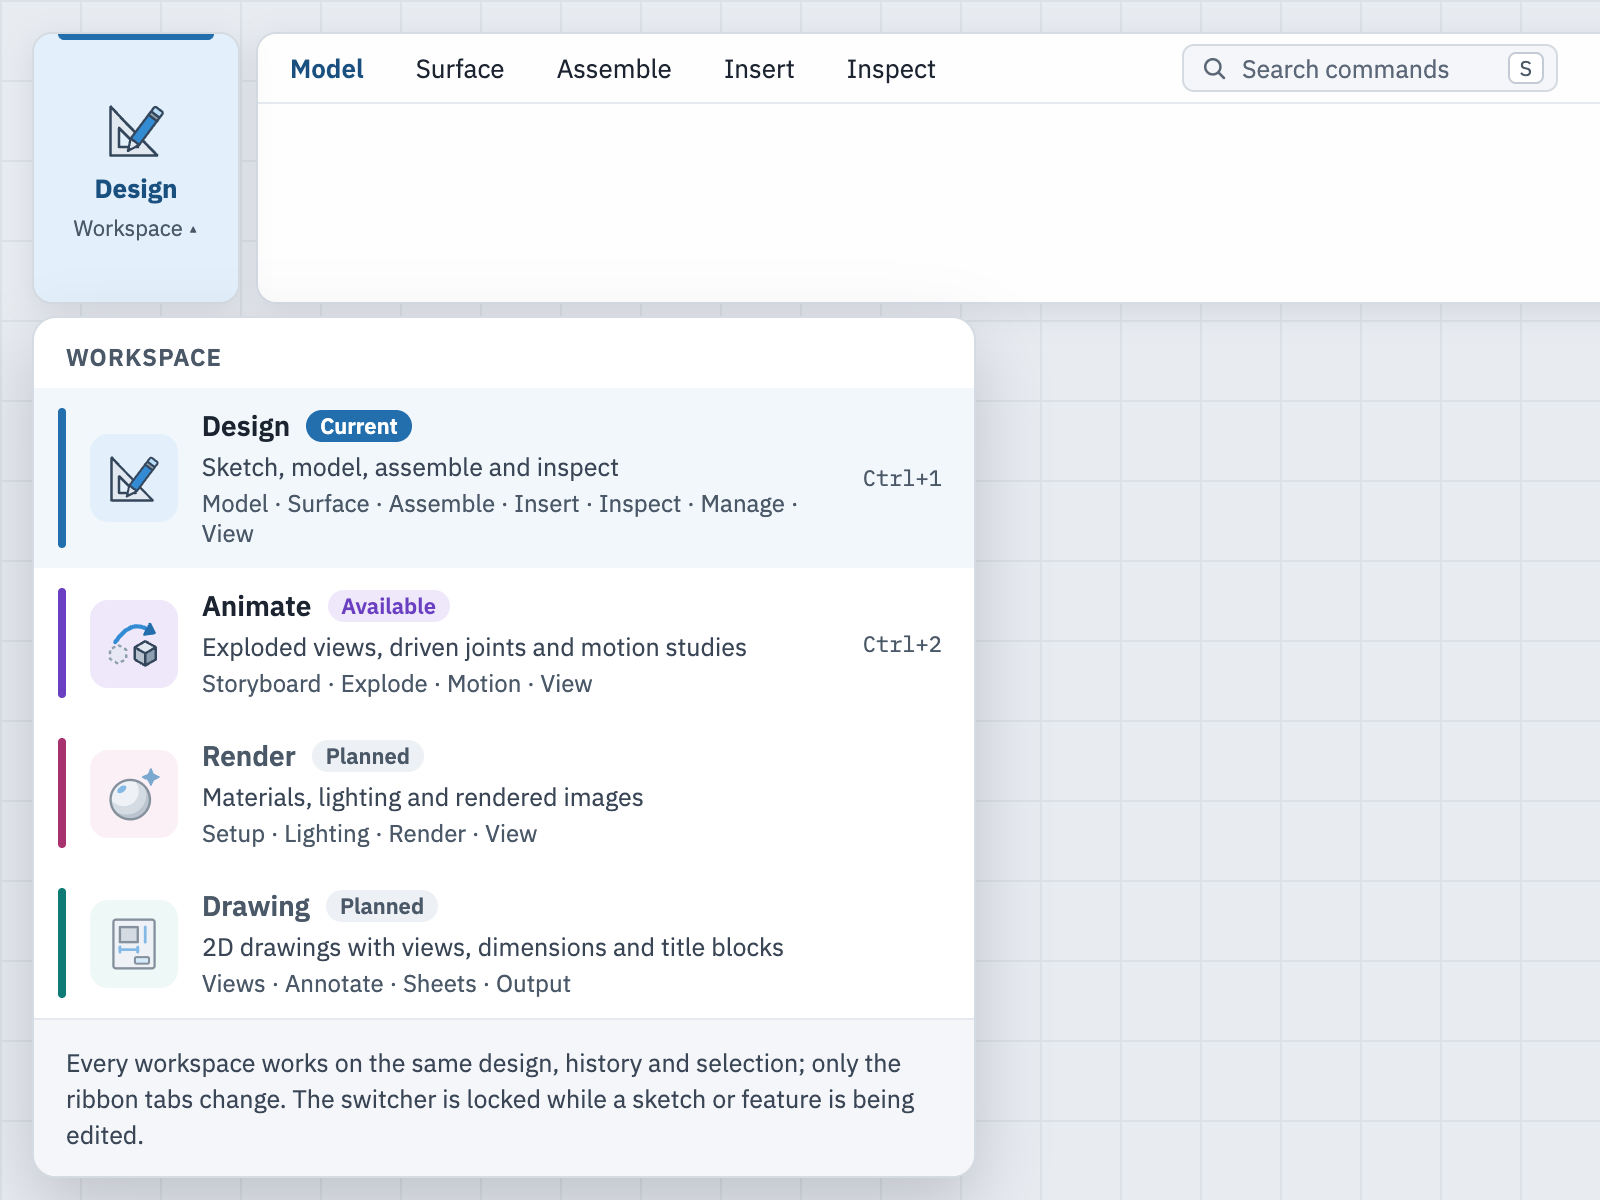
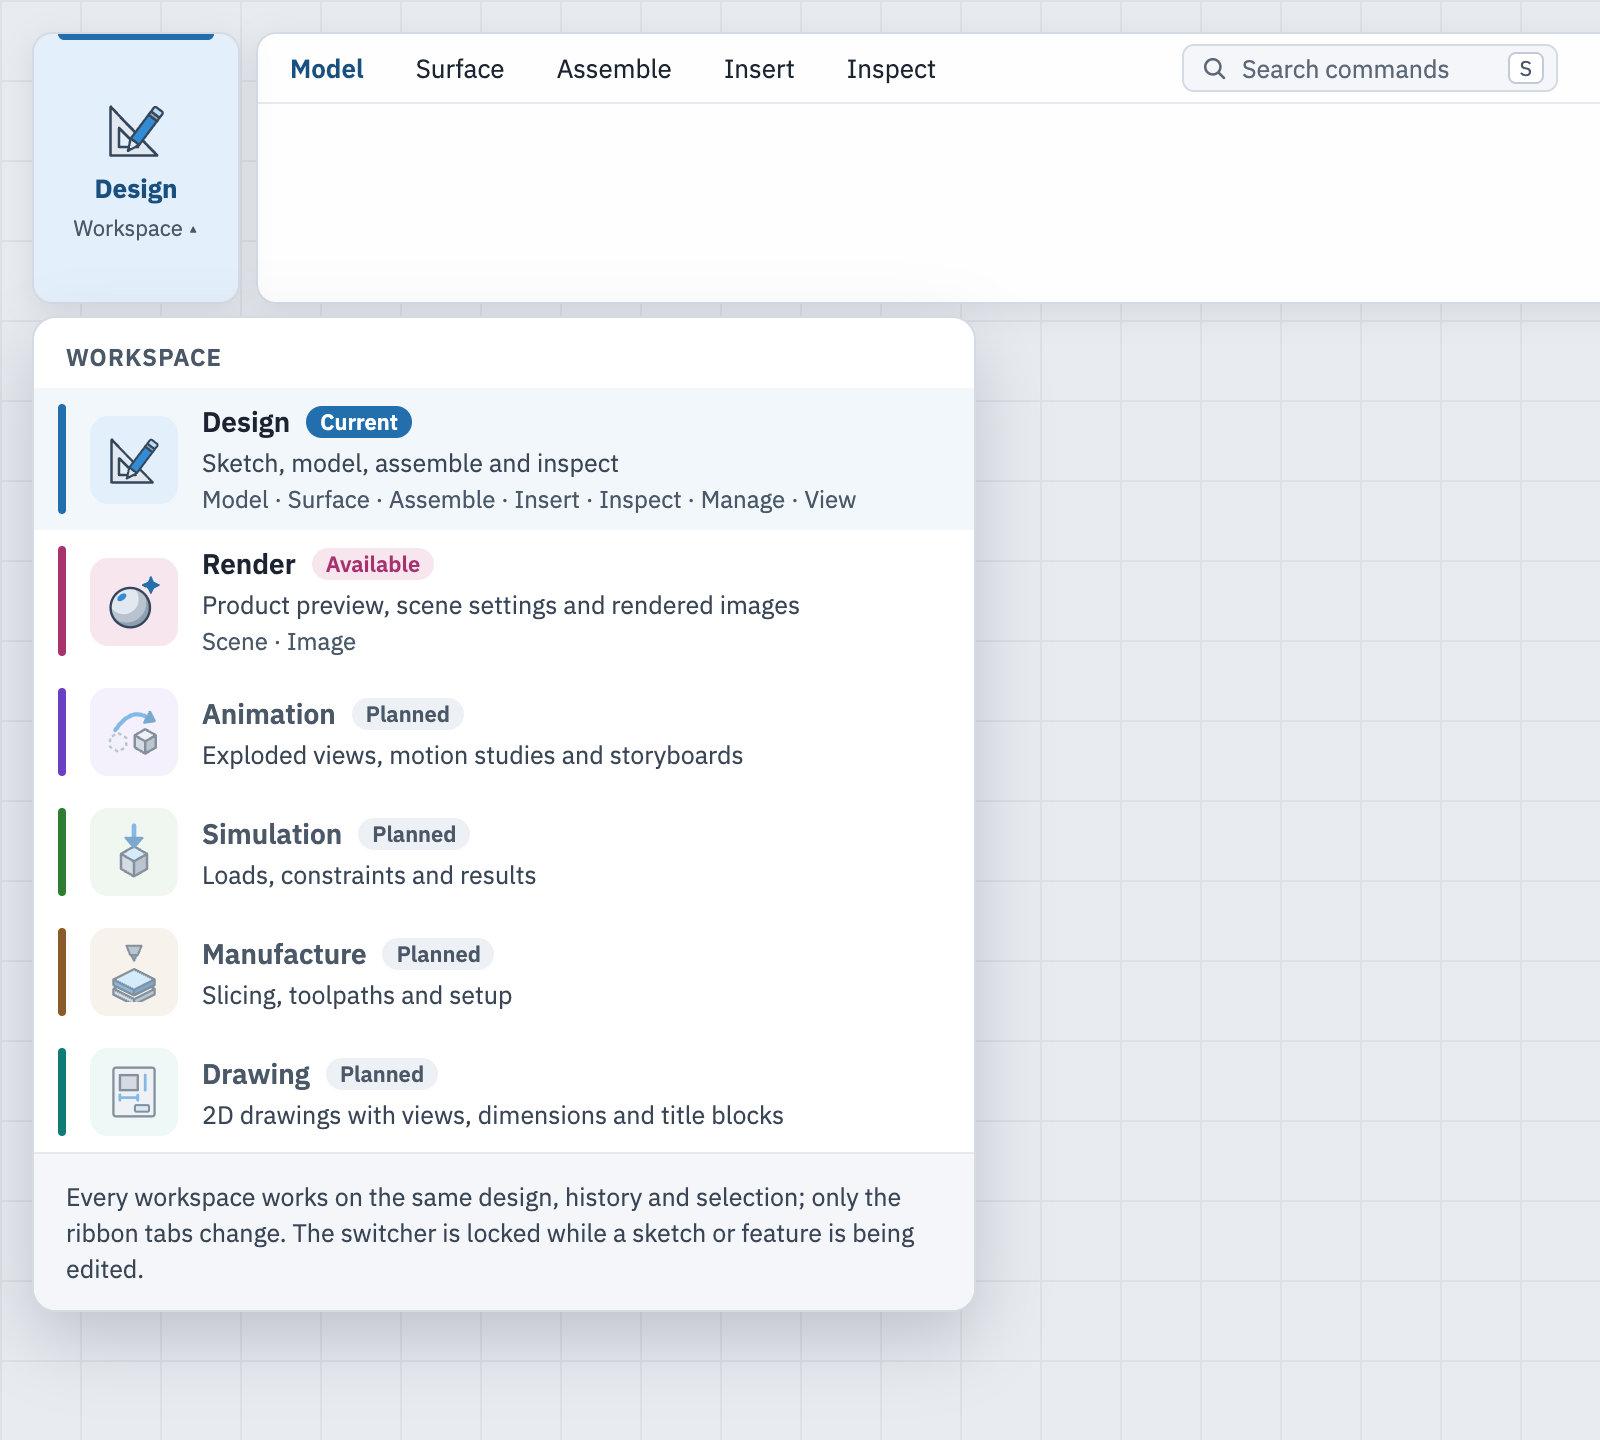
docs: update the UX mockups to the current command set
Adds the Sketch Pattern panel, Perforate, new joints and motion commands, Fair and Match Surface,
and the Render workspace; the workspace switcher now matches the app (Design and Render available,
Animation, Simulation, Manufacture and Drawing later). Command map covers all 389 commands.

diff --git a/docs/design/ux-redesign/README.md b/docs/design/ux-redesign/README.md
@@ -13,14 +13,14 @@ a ribbon whose tabs are ordered by task instead of by geometry type.
 Redo, the design tabs (each with a close button), then the agent status, Settings, Help and
 Report a bug. There is no search box here, no dark-mode toggle and no status bar.
 
-**Ribbon**: a workspace card at the left (Design, Animate, then Render and Drawing when they
-exist), tabs **Model, Surface, Assemble, Insert, Inspect, Manage, View**, and a small command
+**Ribbon**: a workspace card at the left (Design and Render now; Animation, Simulation,
+Manufacture and Drawing as they arrive), tabs **Model, Surface, Assemble, Insert, Inspect, Manage, View**, and a small command
 search at the right end of the tab row (also the S key). Each section shows one to four promoted
 commands. Its label (▾) opens a list of every command in the section, and hovering a row pins it
 to the ribbon, as in the current app. Tooltips show the shortcut and modifier keys.
 
 **Contextual tabs** appear when the design needs them and are selected automatically:
-**Sketch** while a sketch is open, **Sheet Metal** when the active body has a sheet-metal rule.
+**Sketch** while a sketch is open (Create, Modify, Pattern, Constrain, Reference), **Sheet Metal** when the active body has a sheet-metal rule.
 Nothing is greyed out, and the other tabs stay available. Plastic features live in
 Model › Create ▾ and plastic rules in Manage, so there is no Plastic tab.
 
@@ -36,7 +36,7 @@ the ribbon tabs. The geometry types (Solid, Surface, Mesh) are tabs, not workspa
 
 | Board | What it shows |
 |---|---|
-| [Command map](command-map.png) | All 336 commands regrouped by task, and where today's panels go |
+| [Command map](command-map.png) | All 389 commands regrouped by task, and where today's panels go |
 | [Floating](model-floating.png) | Model tab with the ribbon, browser and dialog floating over the viewport, Modify list open |
 | [Compact](model-compact.png) | The same tab docked to the window edges (see below) |
 | [Sketch](sketch.png) | Sketch tab with Finish Sketch as its own ribbon group |
